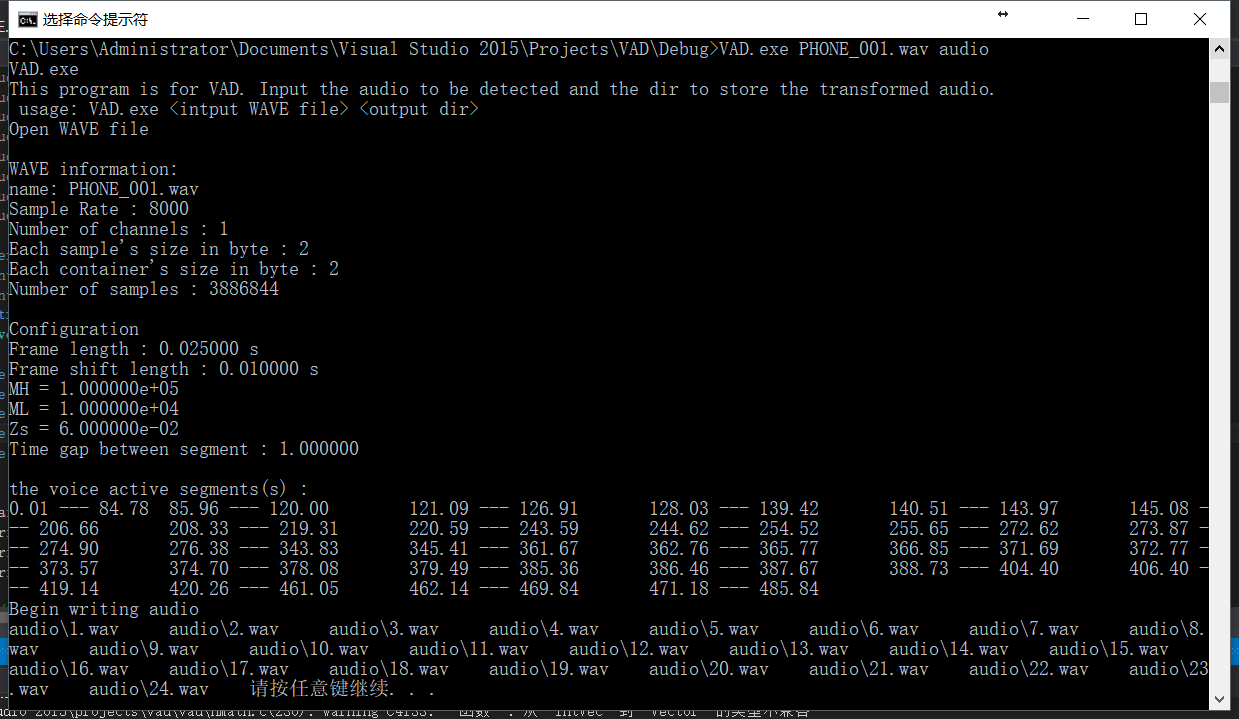
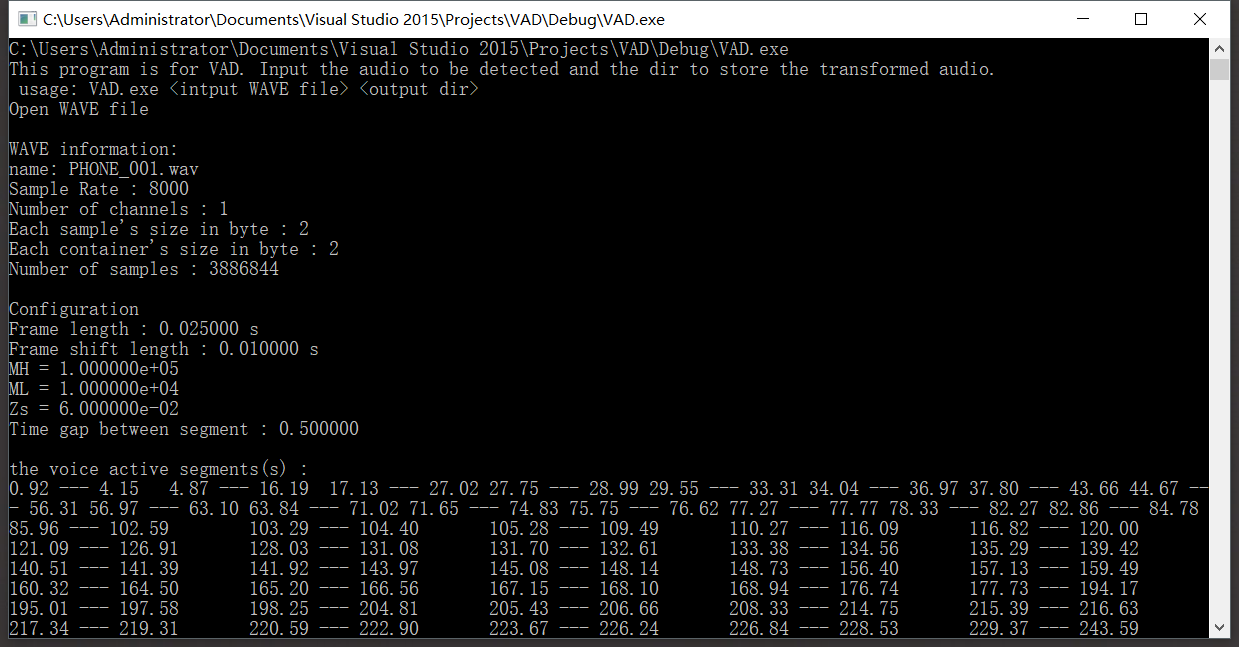
complete pics

Changed region(s): [[0.0, 0.0, 1.0, 1.0]]

diff --git a/main.c b/main.c
@@ -16,7 +16,7 @@ typedef struct {
 double frameSizeInTime = 0.025; 
 double frameShiftSizeInTime = 0.010;
 double MH = (double)1e5, ML = (double)1e4, Zs = 0.06;
-double gapLeast = 1.00;
+double gapLeast = 0.5;
 double genderDectectionWindow = 0.2;
 
 
@@ -54,11 +54,6 @@ int main(int argc, char** argv) {
 		energyForFrames[i] /= frameSize;
 	}
 
-/*	FILE* f = fopen("temp.dat", "w"); 
-	WriteVectorE(f, zeroCrossingRateForFrames); 
-	WriteVectorE(f, energyForFrames);
-	fclose(f);
-	*/
 
 	//set MH,ML and Zs
 	IntVec VMH = CreateIntVec(numFrames); IntVec VML = CreateIntVec(numFrames);
@@ -107,6 +102,14 @@ int main(int argc, char** argv) {
 			pos = 0;
 		}
 	}
+
+	//The data to plot
+	FILE* fdataOut = fopen("dataToPlot.dat", "w");
+	WriteVectorE(fdataOut, zeroCrossingRateForFrames);
+	WriteVectorE(fdataOut, energyForFrames);
+	WriteIntVec(fdataOut, speechInd);
+	fclose(fdataOut);
+	
 
 	//print the silent segments
 	//pos = 0;

diff --git a/README.md b/README.md
@@ -32,8 +32,10 @@ VAD.exe
 ```
 
 ### 示例
+运行截图
 ![example1](https://github.com/hangtinghen/Voice-Activity-Detection/blob/master/Pic/1.PNG)
-![example2](https://github.com/hangtinghen/Voice-Activity-Detection/blob/master/Pic/2.PNG)
+结果
+![example2](https://github.com/hangtinghen/Voice-Activity-Detection/blob/master/Pic/result1.PNG)
 
 ## 程序概述
 
